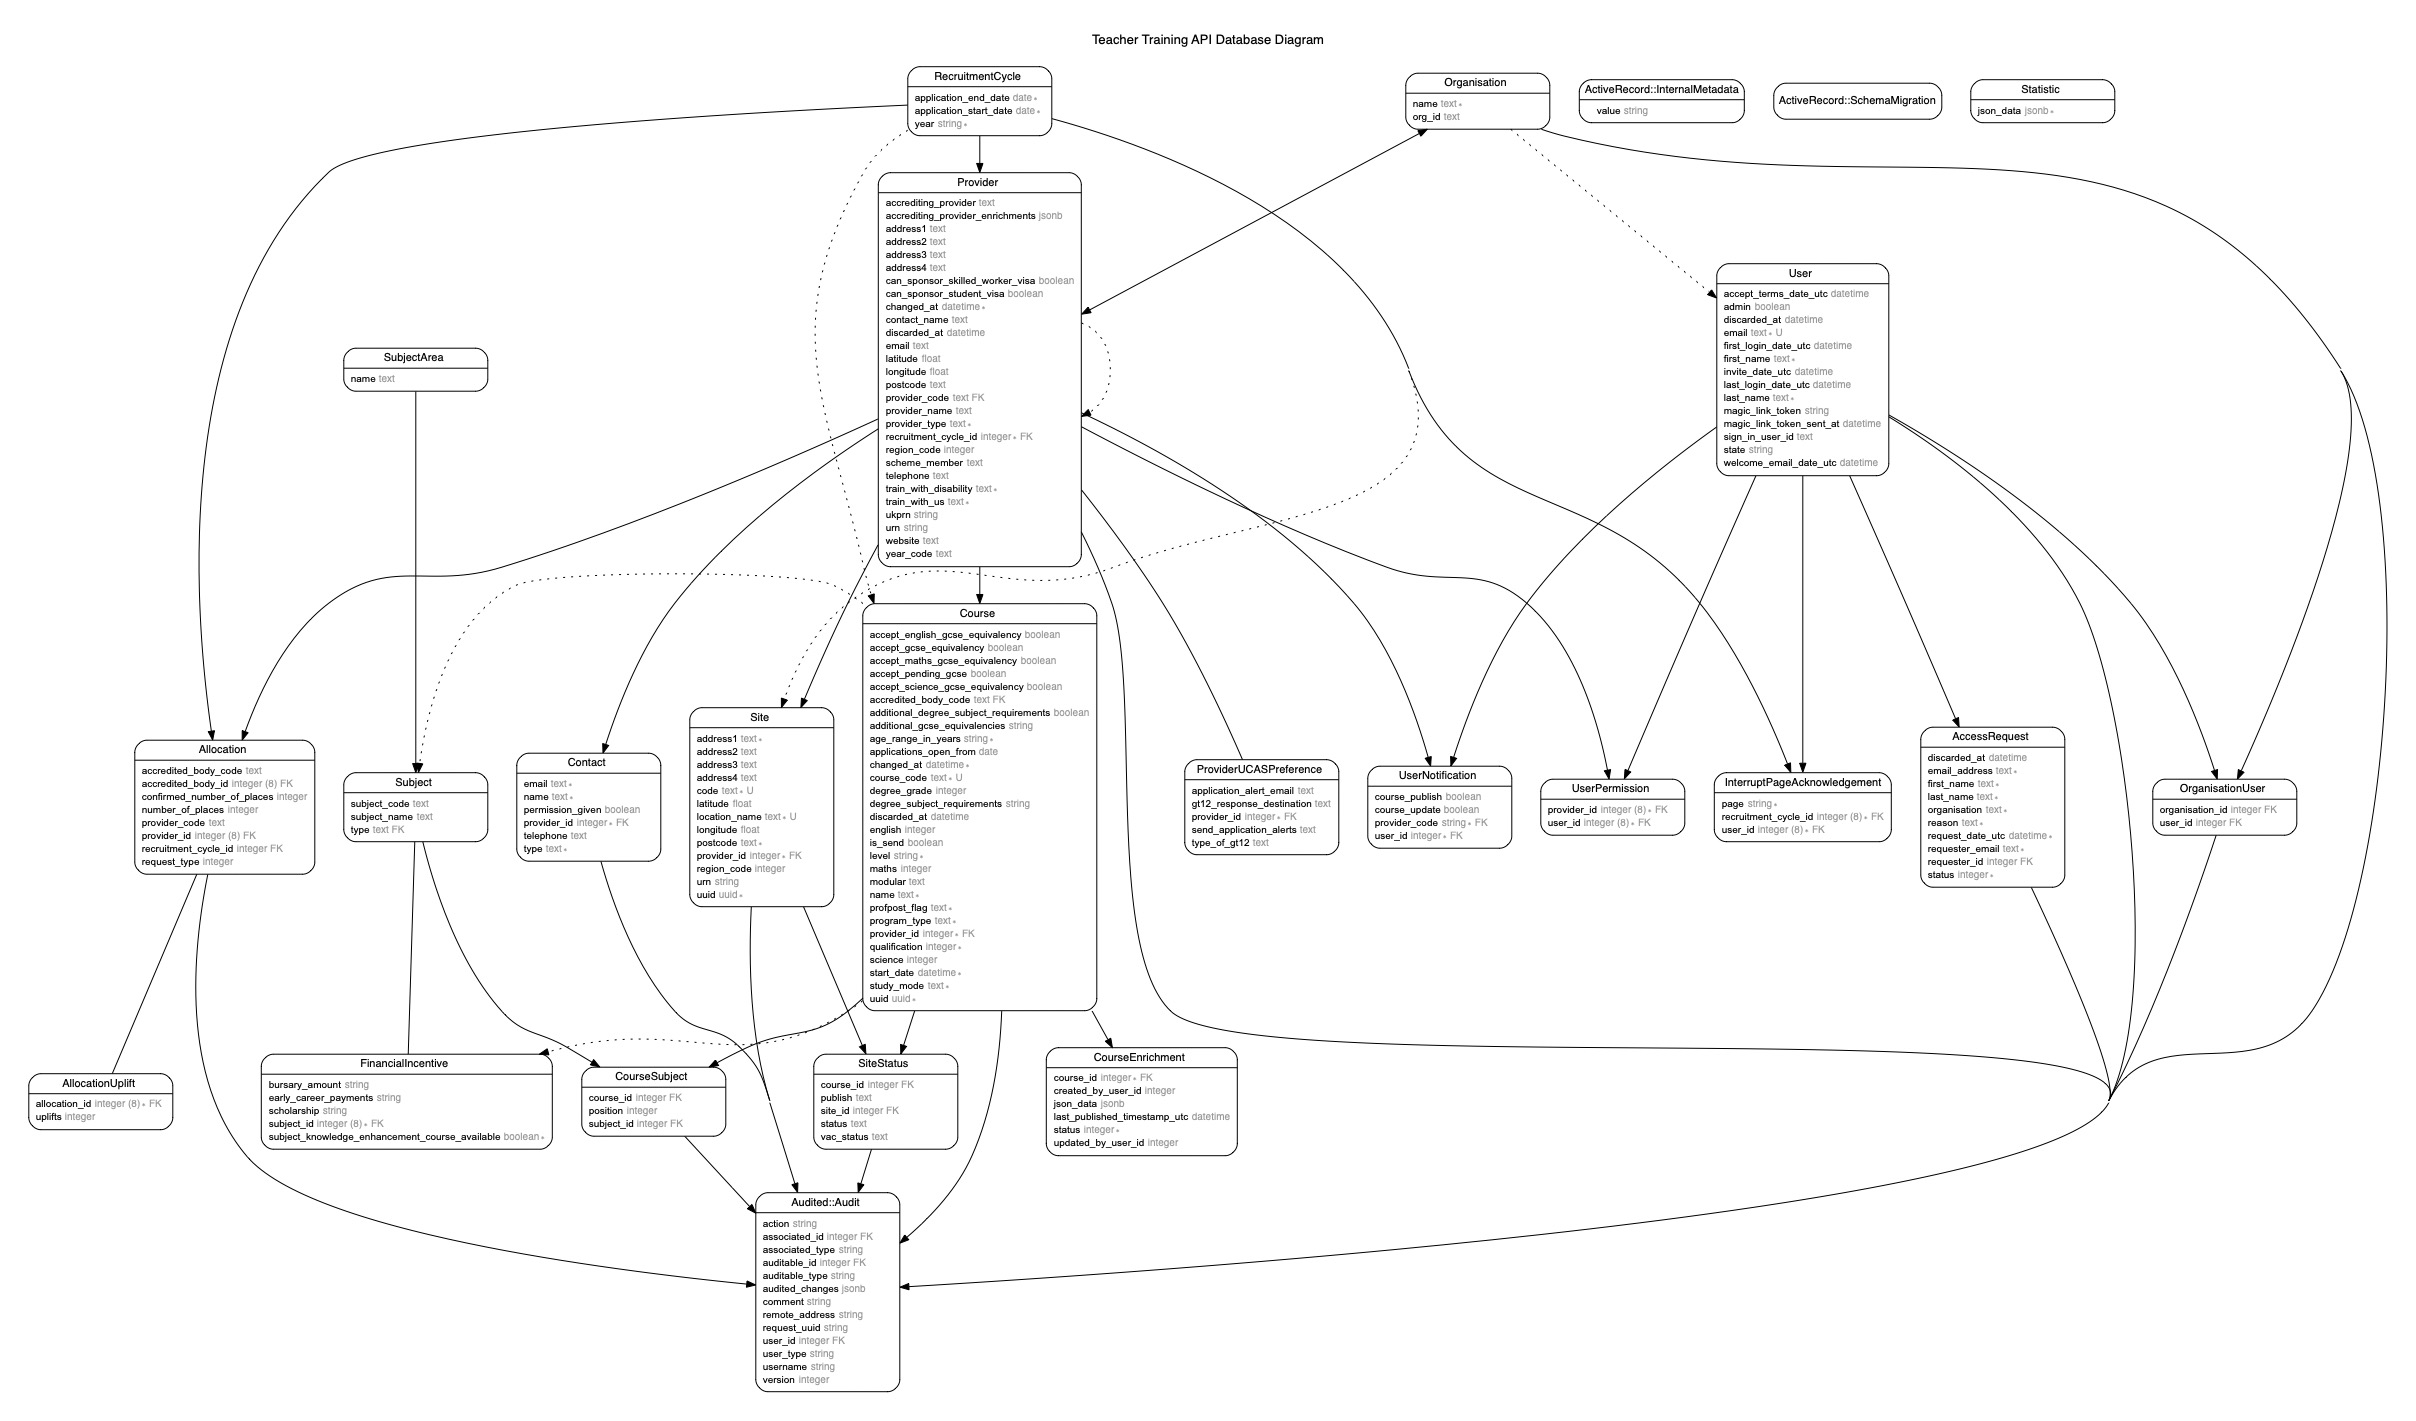
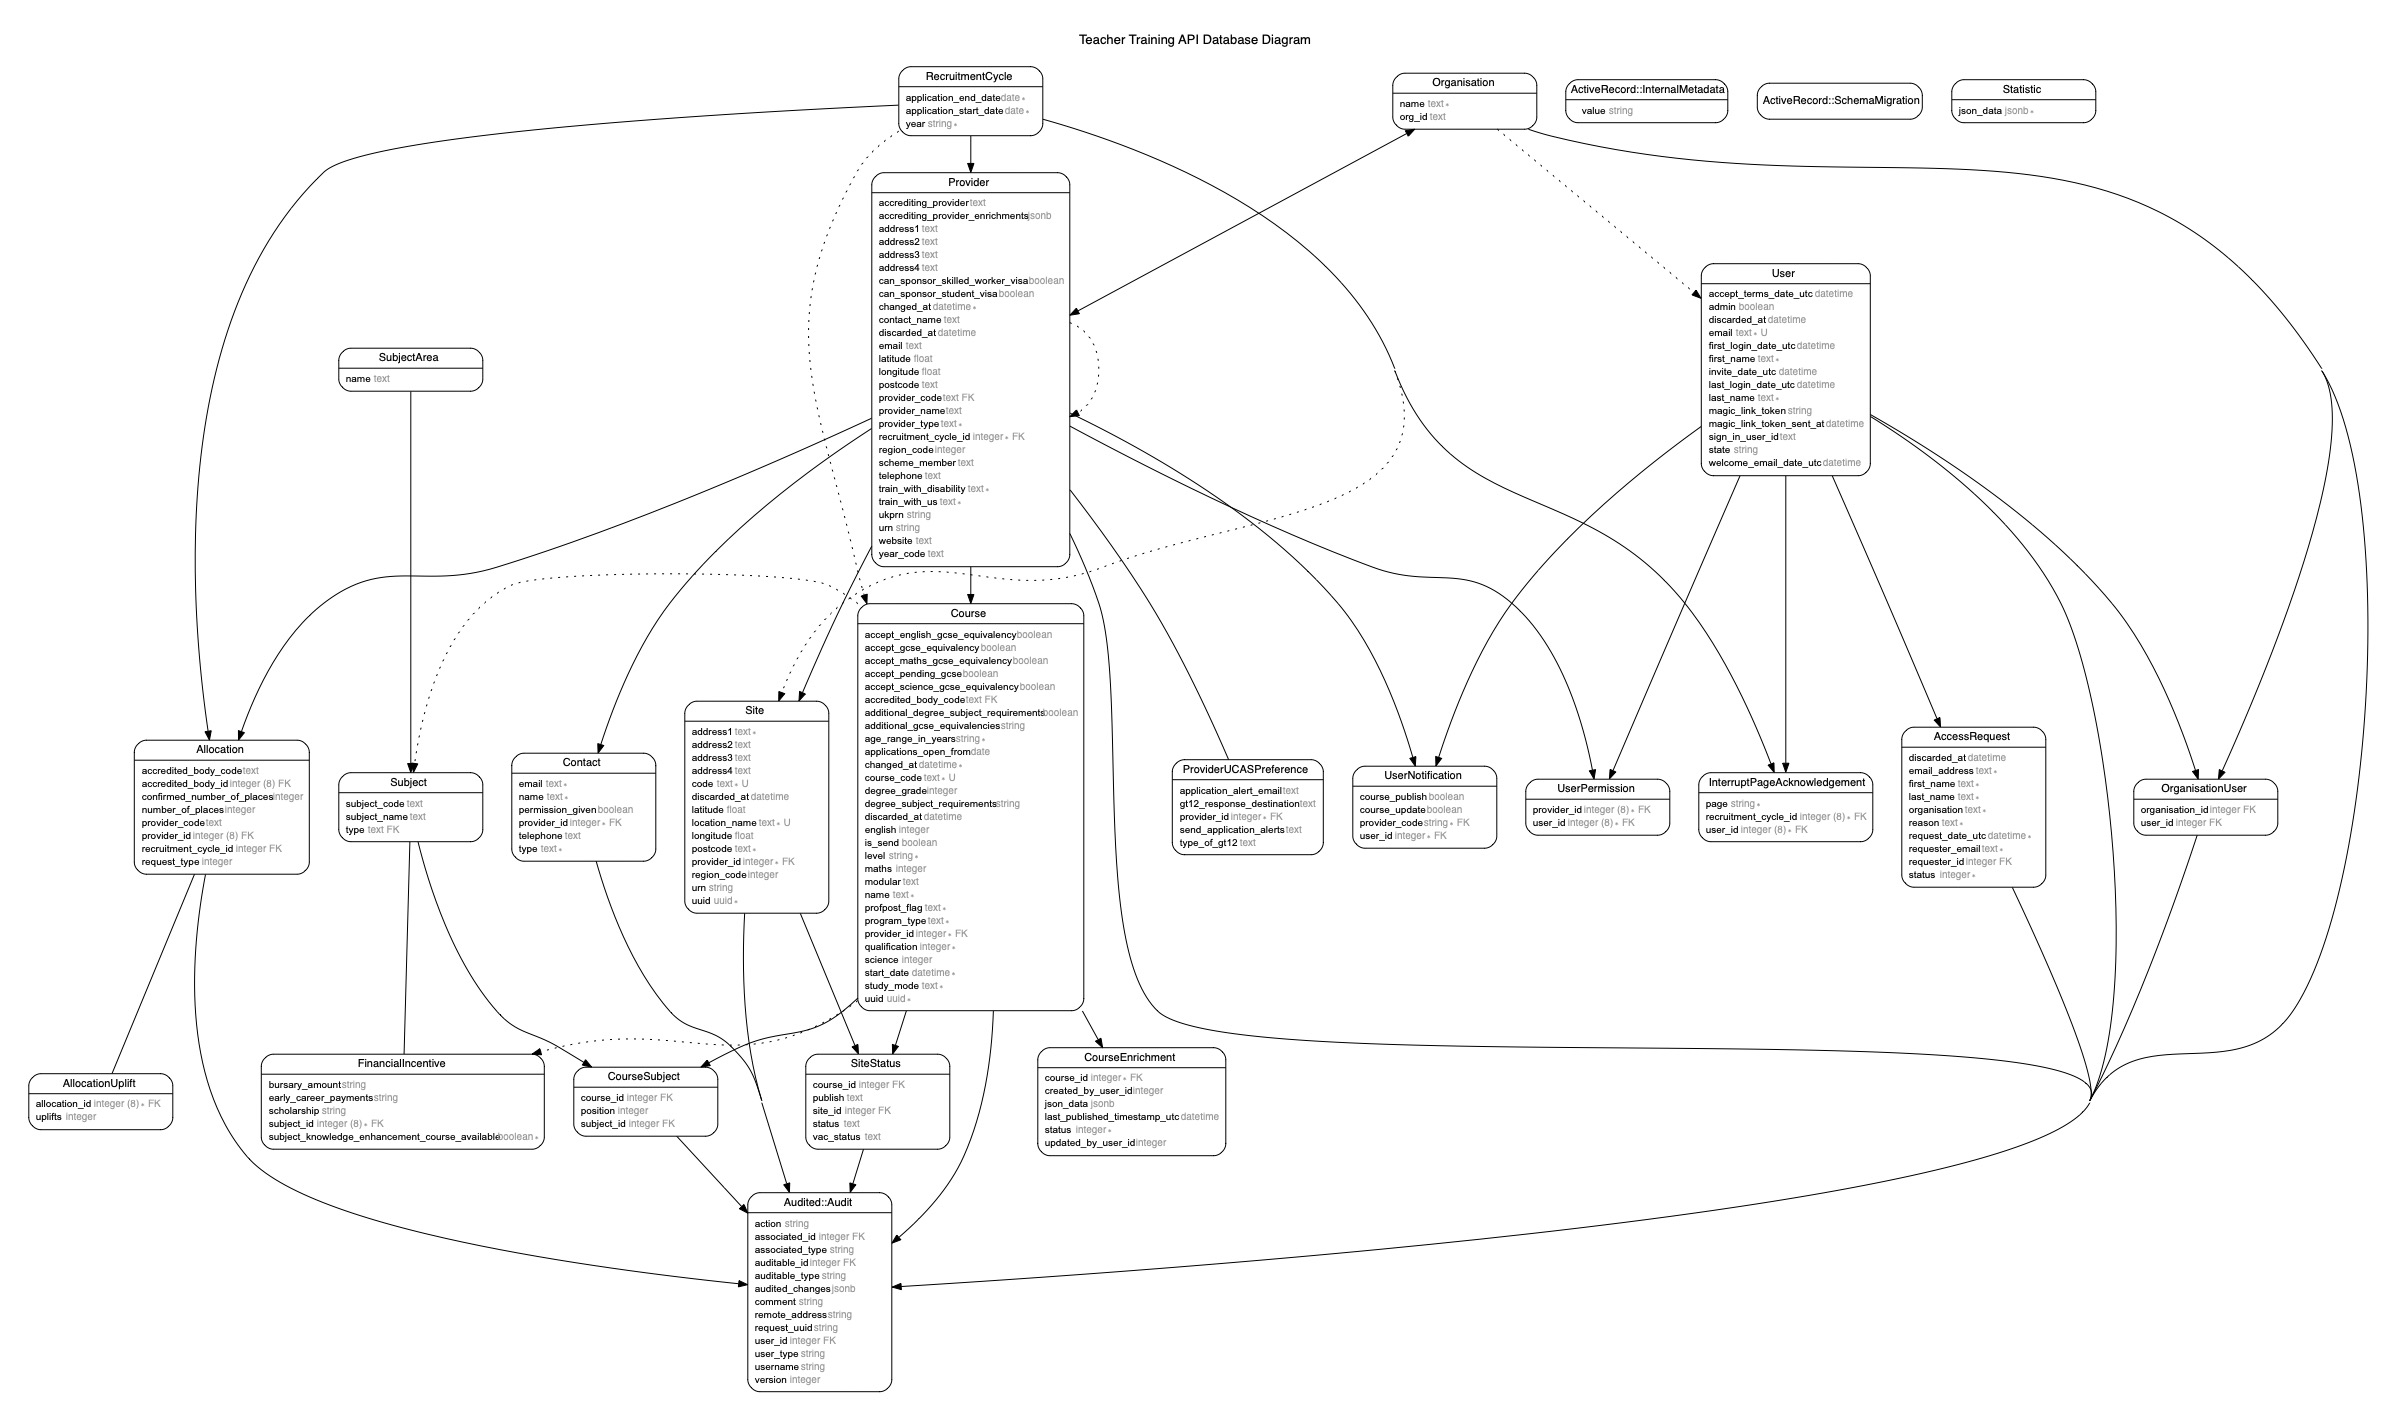
[503] Allow locations to be deleted

diff --git a/spec/features/support/providers/locations/managing_locations_spec.rb b/spec/features/support/providers/locations/managing_locations_spec.rb
@@ -3,15 +3,16 @@
 require "rails_helper"
 
 feature "Managing a provider's locations" do
-  scenario "i can view a provider's locations" do
+  before do
     given_i_am_authenticated(user: create(:user, :admin))
     when_i_visit_a_provider_locations_page
+  end
+
+  scenario "i can view a provider's locations" do
     then_i_should_see_a_list_of_locations
   end
 
   scenario "i can edit a provider's locations" do
-    given_i_am_authenticated(user: create(:user, :admin))
-    when_i_visit_a_provider_locations_page
     and_i_click_on_the_edit_link_for_a_location
     then_should_be_on_the_edit_page_for_the_location
     when_i_edit_the_location_details
@@ -21,11 +22,15 @@ feature "Managing a provider's locations" do
   end
 
   scenario "i cannot update with invalid data" do
-    given_i_am_authenticated(user: create(:user, :admin))
-    when_i_visit_a_provider_locations_page
     and_i_click_on_the_edit_link_for_a_location
     and_i_submit_with_invalid_data
     then_i_should_see_a_an_error_message
+  end
+
+  scenario "i can delete a provider's location" do
+    and_i_click_on_the_edit_link_for_a_location
+    and_i_choose_to_delete_the_location
+    then_the_location_should_be_deleted
   end
 
   def when_i_visit_a_provider_locations_page
@@ -73,6 +78,14 @@ feature "Managing a provider's locations" do
 
   def then_i_should_see_a_an_error_message
     expect(provider_location_edit_page.errors.size).to eq(1)
+  end
+
+  def and_i_choose_to_delete_the_location
+    provider_location_edit_page.delete_record.click
+  end
+
+  def then_the_location_should_be_deleted
+    expect(provider_locations_index_page.locations.size).to eq(0)
   end
 
   def provider

diff --git a/db/schema.rb b/db/schema.rb
@@ -10,11 +10,12 @@
 #
 # It's strongly recommended that you check this file into your version control system.
 
-ActiveRecord::Schema.define(version: 2021_12_21_133521) do
+ActiveRecord::Schema.define(version: 2021_12_31_135738) do
 
   # These are extensions that must be enabled in order to support this database
   enable_extension "btree_gin"
   enable_extension "btree_gist"
+  enable_extension "citext"
   enable_extension "pg_buffercache"
   enable_extension "pg_stat_statements"
   enable_extension "plpgsql"
@@ -327,8 +328,11 @@ ActiveRecord::Schema.define(version: 2021_12_21_133521) do
     t.float "longitude"
     t.string "urn"
     t.uuid "uuid", default: -> { "uuid_generate_v4()" }, null: false
+    t.datetime "discarded_at"
+    t.index ["discarded_at"], name: "index_site_on_discarded_at"
     t.index ["latitude", "longitude"], name: "index_site_on_latitude_and_longitude"
-    t.index ["provider_id", "code"], name: "IX_site_provider_id_code", unique: true
+    t.index ["provider_id", "code"], name: "idx_site_code_discarded_at_not_null", where: "(discarded_at IS NOT NULL)"
+    t.index ["provider_id", "code"], name: "idx_site_code_discarded_at_null", where: "(discarded_at IS NULL)"
     t.index ["uuid"], name: "index_sites_unique_uuid", unique: true
   end
 

diff --git a/app/models/provider.rb b/app/models/provider.rb
@@ -39,7 +39,7 @@ class Provider < ApplicationRecord
   has_many :user_permissions
   has_many :users_via_user_permission, through: :user_permissions, source: :users
 
-  has_many :sites
+  has_many :sites, -> { kept }, inverse_of: :provider
 
   has_many :user_notifications,
            foreign_key: :provider_code,
@@ -159,7 +159,10 @@ class Provider < ApplicationRecord
 
   acts_as_mappable lat_column_name: :latitude, lng_column_name: :longitude
 
-  before_discard { discard_courses }
+  before_discard do
+    discard_courses
+    discard_sites
+  end
 
   pg_search_scope :search, against: %i[provider_code provider_name], using: { tsearch: { prefix: true } }
 
@@ -296,6 +299,10 @@ class Provider < ApplicationRecord
 
   def discard_courses
     courses.each(&:discard)
+  end
+
+  def discard_sites
+    sites.each(&:discard)
   end
 
   def declared_visa_sponsorship?

diff --git a/app/controllers/support/locations_controller.rb b/app/controllers/support/locations_controller.rb
@@ -15,16 +15,26 @@ module Support
 
     def update
       if site.update(site_params)
-        redirect_to support_provider_locations_path(provider), flash: { success: t("support.flash.updated", resource: "Location") }
+        redirect_to support_provider_locations_path(provider), flash: { success: t("support.flash.updated", resource: flash_resource) }
       else
         render :edit
       end
+    end
+
+    def destroy
+      site.discard!
+
+      redirect_to support_provider_locations_path(provider), flash: { success: t("support.flash.deleted", resource: flash_resource) }
     end
 
   private
 
     def provider
       @provider ||= RecruitmentCycle.current.providers.find(params[:provider_id])
+    end
+
+    def flash_resource
+      @flash_resource ||= "Location"
     end
 
     def site_params

diff --git a/app/models/site.rb b/app/models/site.rb
@@ -4,6 +4,7 @@ class Site < ApplicationRecord
   include PostcodeNormalize
   include RegionCode
   include TouchProvider
+  include Discard::Model
 
   POSSIBLE_CODES = (("A".."Z").to_a + ("0".."9").to_a + ["-"]).freeze
   EASILY_CONFUSED_CODES = %w[1 I 0 O -].freeze # these ought to be assigned last
@@ -21,7 +22,7 @@ class Site < ApplicationRecord
             :postcode,
             presence: true
   validates :postcode, postcode: true
-  validates :code, uniqueness: { scope: :provider_id, case_sensitive: false },
+  validates :code, uniqueness: { scope: :provider_id, case_sensitive: false, conditions: -> { where(discarded_at: nil) } },
                    format: { with: /\A[A-Z0-9\-]+\z/, message: "must contain only A-Z, 0-9 or -" },
                    presence: true
 

diff --git a/spec/models/site_spec.rb b/spec/models/site_spec.rb
@@ -50,6 +50,23 @@ describe Site, type: :model do
     it { is_expected.to belong_to(:provider) }
   end
 
+  describe "discarded behaviour for code" do
+    let(:existing_code) { "AB" }
+    let(:site_with_code) { create(:site, code: existing_code, provider_id: provider.id) }
+
+    subject { create(:site, provider_id: provider.id, code: "B") }
+
+    before do
+      site_with_code.discard!
+      subject.code = existing_code
+    end
+
+    it "can be saved with a discarded code" do
+      expect { subject.save! }.not_to raise_error
+      expect(subject.reload.code).to eq(existing_code)
+    end
+  end
+
   describe "#touch_provider" do
     let(:site) { create(:site) }
 

diff --git a/spec/models/provider_spec.rb b/spec/models/provider_spec.rb
@@ -469,6 +469,20 @@ describe Provider, type: :model do
     end
   end
 
+  describe "#discard_sites" do
+    let(:site) { build(:site) }
+    let(:provider) { create(:provider, sites: [site]) }
+
+    before do
+      provider.discard_sites
+    end
+
+    it "discards all of the providers sites" do
+      expect(provider.sites.count).to eq(0)
+      expect(site.discarded?).to be_truthy
+    end
+  end
+
   describe "#next_available_course_code" do
     let(:provider) { create(:provider) }
     let(:course1) { create(:course, provider: provider, course_code: "A123") }

diff --git a/db/migrate/20211231135738_update_uniq_index_on_site.rb b/db/migrate/20211231135738_update_uniq_index_on_site.rb
@@ -1,0 +1,9 @@
+class UpdateUniqIndexOnSite < ActiveRecord::Migration[6.1]
+  def change
+    change_table :site do |t|
+      t.remove_index(name: "IX_site_provider_id_code")
+      t.index %i[provider_id code], where: "(discarded_at IS NOT NULL)", name: "idx_site_code_discarded_at_not_null"
+      t.index %i[provider_id code], where: "(discarded_at IS NULL)", name: "idx_site_code_discarded_at_null"
+    end
+  end
+end

diff --git a/spec/support/page_objects/support/provider/location_edit_page.rb b/spec/support/page_objects/support/provider/location_edit_page.rb
@@ -13,7 +13,8 @@ module PageObjects
         element :building_and_street, "#site-address1-field"
         element :postcode, "#site-postcode-field"
 
-        element :update_record, ".govuk-button"
+        element :update_record, 'button.govuk-button[type="submit"]'
+        element :delete_record, 'input.govuk-button[type="submit"]'
 
         def errors
           within(error_summary) do

diff --git a/config/routes.rb b/config/routes.rb
@@ -51,7 +51,7 @@ Rails.application.routes.draw do
     resources :providers, except: %i[destroy] do
       get :users, on: :member
       resources :courses, only: %i[index edit update]
-      resources :locations, only: %i[index edit update]
+      resources :locations, only: %i[index edit update destroy]
     end
     resources :users, only: %i[index show new create destroy]
 

diff --git a/db/migrate/20211231135038_add_discarded_at_to_site.rb b/db/migrate/20211231135038_add_discarded_at_to_site.rb
@@ -1,0 +1,6 @@
+class AddDiscardedAtToSite < ActiveRecord::Migration[6.1]
+  def change
+    add_column :site, :discarded_at, :datetime
+    add_index :site, :discarded_at
+  end
+end
